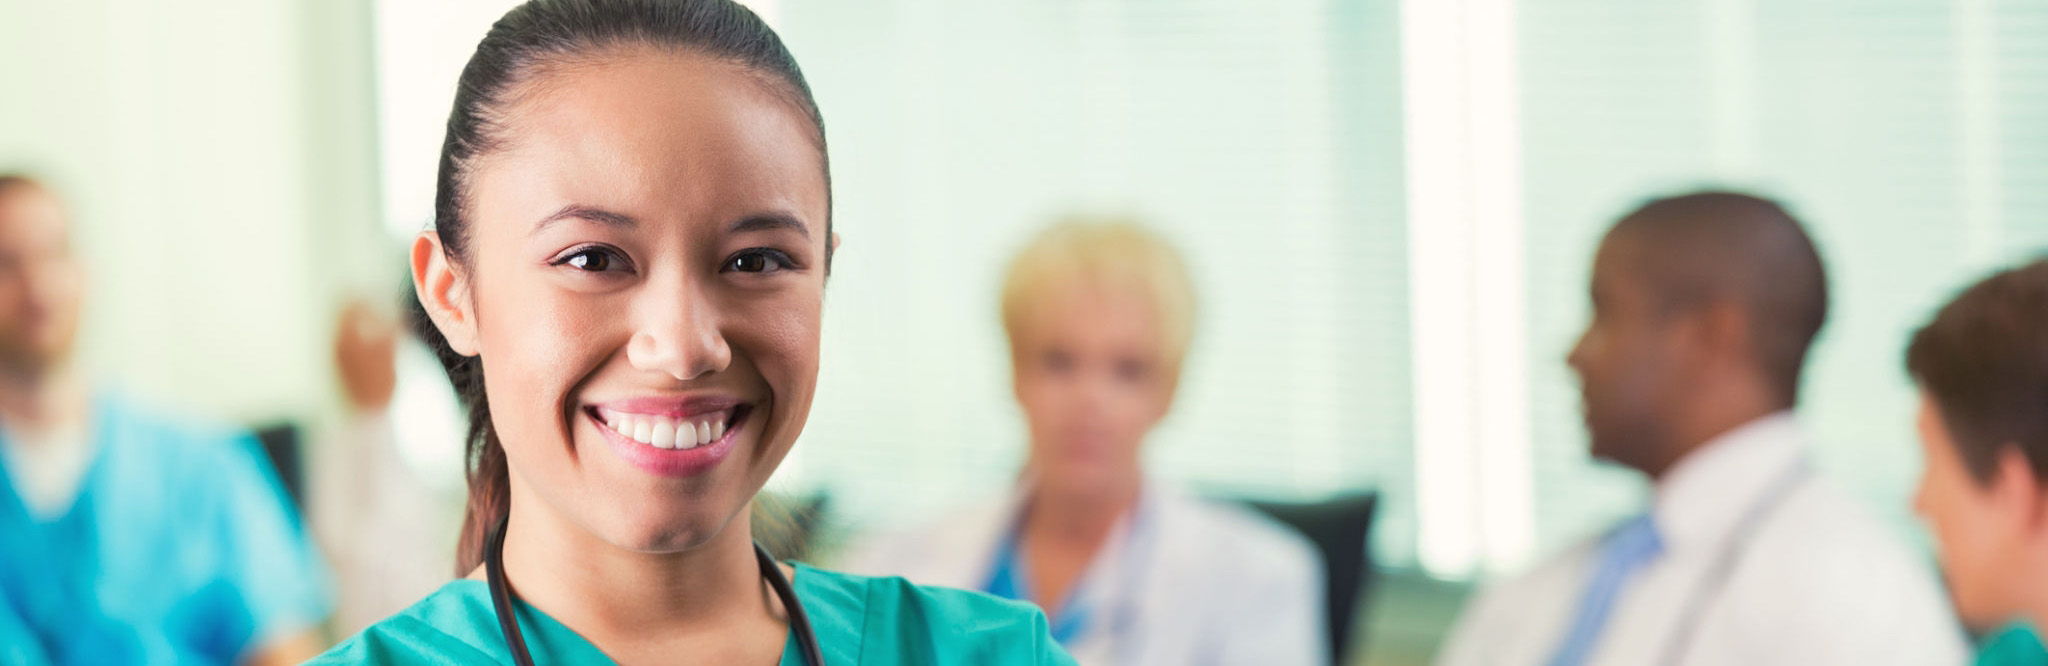
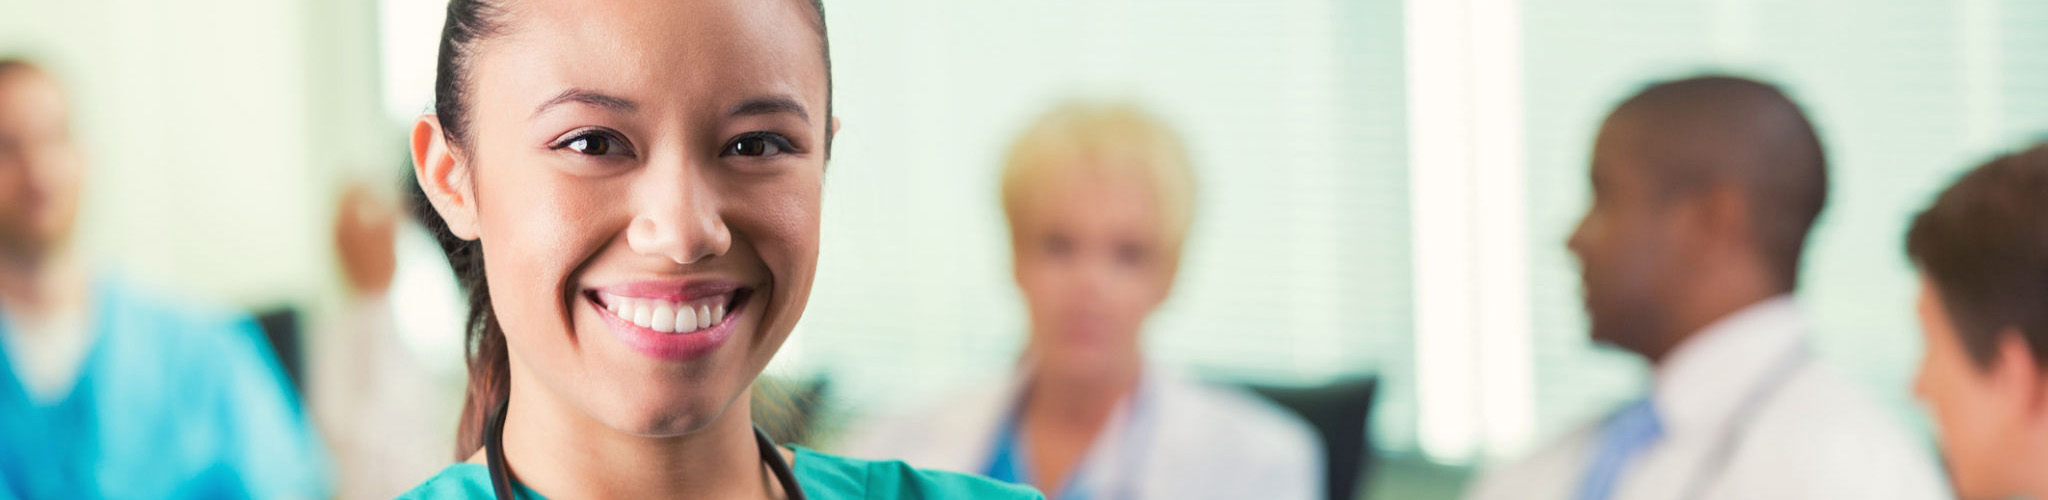
add style to service

diff --git a/src/css/Services.css b/src/css/Services.css
@@ -1,65 +1,56 @@
 .services {
   width: 100%;
-  height: 95vh;
+  min-height: 99vh;
   overflow: hidden;
 }
 
-.services .containerServices {
-  width: inherit;
-  height: 95vh;
-  display: flex;
-  flex-direction: row;
-}
 
-.containerServiceCards {
-  margin-top: 10vh;
-  margin-left: 10vh;
-  margin-bottom: 10vh;
-  box-sizing: border-box;
-  width: 40vw;
-  background: #e1eeff;
-}
-
-.imageServices {
-  width: 50%;
-  height: 95vh;
-  background-image: url(../assets/heart-unused.jpg);
-  background-position: center;
+.service-image{
+  height: 34vh;
+  background-image: url(../assets/banner-staff.jpg);
   background-size: cover;
 }
 
-.serviceCards h3 {
-  padding: 10px;
+.title{
+  font-family: "Raleway", sans-serif;
+  padding-left:400px;
+  padding-right:400px;
+  padding-top:40px;
   text-align: center;
 }
 
-.services p {
-  padding: 2.5px 10px;
+.title h1{
+  color:#398ffc;
+  margin-bottom: 20px;
+}
+.title p{
+  font-size: 18px;
+  margin-bottom: 20px;
 }
 
-.serviceCards {
-  margin-top: 10vh;
-  margin-left: 10vh;
-  box-sizing: border-box;
-  background: #e1eeff;
-}
+
 
 .serviceContainer {
   display: flex;
-  padding: 10px;
-  width: 30vw;
-  border-bottom: black solid 2px;
+  flex-direction: row;
+  flex-wrap: wrap;
+  padding-top:80px !important;
+  padding-left: 120px !important;
   margin: 5px;
+ 
 }
 
-.singleService {
-  width: 30vw;
+
+.singleService{
+  box-sizing: border-box;
+  width: 30%;
+ margin-right:20px;
+ margin-bottom: 60px;
 }
 
-.singleService img {
-  float: left;
-  margin-right: 5px;
-  height: 100px;
-  width: 100px;
-  background-color: black;
-}
+
+
+
+
+
+

diff --git a/src/pages/services.js b/src/pages/services.js
@@ -5,17 +5,22 @@ class Services extends React.Component {
   render() {
     return (
       <>
-        <div className="services">
-          <div className="containerServices">
-            <div className="imageServices"></div>
-            <div className="containerServiceCards">
-              <div className="serviceCards">
-                <ServiceList />
-              </div>
-            </div>
-          </div>
+      <div className="services">
+        <div className="service-image"></div>
+        <div className="title">
+          <h1>Our Services</h1>
+          <p>Medical One GP's are dedicated to providing you the best possible care. On this page you can find a GP by name, gender, location, languages spoken or medial interest.</p>
         </div>
-      </>
+        
+        <div className="serviceCards">
+         <div className="cardsContainer">
+            <div className="serviceContainer">
+              <ServiceList />
+            </div>
+         </div>
+        </div>
+      </div>
+    </>
     );
   }
 }

diff --git a/src/components/Services/serviceList.js b/src/components/Services/serviceList.js
@@ -1,6 +1,7 @@
 import React from "react";
 
 import "../../css/Services.css";
+import service1 from '../../assets/service1.jpg'
 
 class serviceList extends React.Component {
   state = {
@@ -23,13 +24,12 @@ class serviceList extends React.Component {
 
     return (
       <>
-        <h1>Services</h1>
         {data
           ? data.map((service, index) => {
               return (
-                <div className="serviceContainer">
+              
                   <div className="singleService" key={index}>
-                    <img></img>
+                    <img src={service1}></img>
                     <p>
                       <b>Brand: </b> {service.serviceName}
                     </p>
@@ -37,7 +37,7 @@ class serviceList extends React.Component {
                       <b>Description: </b> {service.serviceDescription}
                     </p>
                   </div>
-                </div>
+        
               );
             })
           : null}

diff --git a/src/pages/vaccines.js b/src/pages/vaccines.js
@@ -8,7 +8,7 @@ class Vaccines extends React.Component {
         <div className="vaccines">
           <div className="vaccine-image"></div>
           <div className="title">
-            <h1>Check Our Vaccine</h1>
+            <h1>Our Vaccine</h1>
             <p>Medical One GP's are dedicated to providing you the best possible care. On this page you can find a GP by name, gender, location, languages spoken or medial interest.</p>
           </div>
           
@@ -18,8 +18,6 @@ class Vaccines extends React.Component {
                 <VaccineList />
               </div>
            </div>
-
-           
           </div>
         </div>
       </>

diff --git a/src/css/Vaccines.css b/src/css/Vaccines.css
@@ -59,6 +59,12 @@
   border-radius: 5px;
   height: 200px;
   width: 200px;
+  cursor: pointer;
+  transition: all 0.6s;
+
+} 
+.singleVaccine img:hover{
+  transform: scale(1.1);
 } 
 .singleVaccine p {
   font-size: 14px;

diff --git a/src/css/register.css b/src/css/register.css
@@ -13,7 +13,7 @@
 .imageSignUp {
   width: 50%;
   height: 100%;
-  background-image: url(../assets/sign-up.jpg);
+  background-image: url(../assets/staff.jpg);
   background-size: cover;
 }
 
